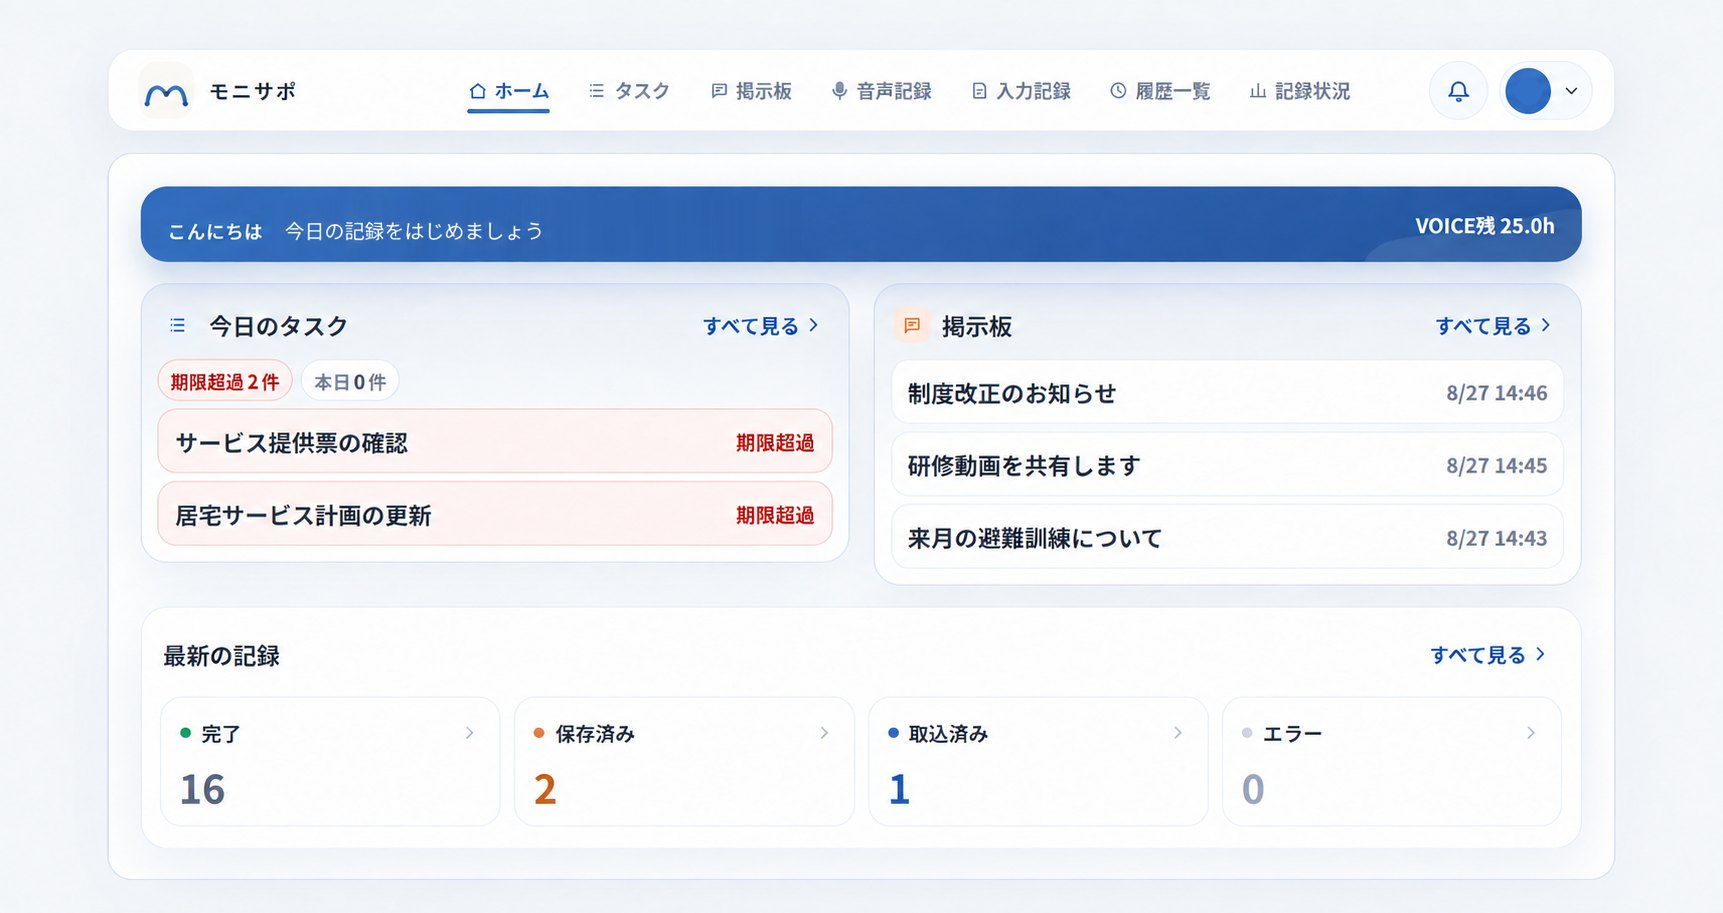
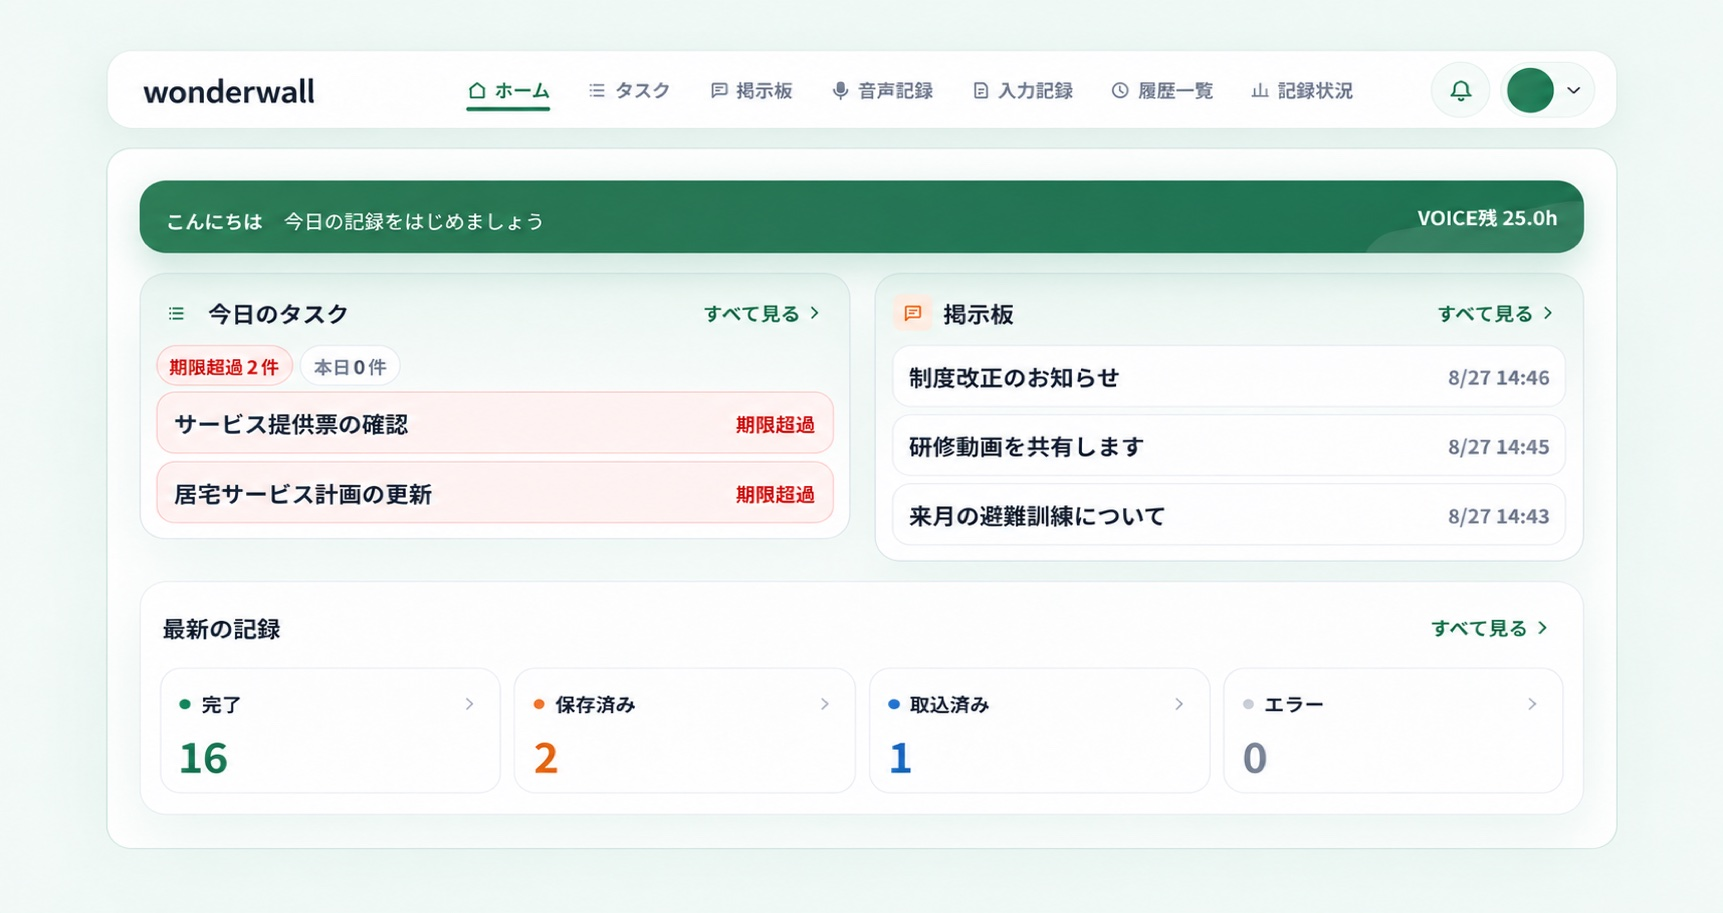
記録支援アプリのページにFAQを追加し、PC・スマホの画面画像を差し替え
FAQは開発元サイトに合わせ、RPA転記は事業所のPCで行う旨を明記。

diff --git a/care-partner.html b/care-partner.html
@@ -3366,7 +3366,96 @@ html.js .ms .reveal-copy {
       .ms .feature-triad--six .feature-card:last-of-type { border-bottom: 1px solid var(--line); }
       .ms .feature-statement { padding: 40px 0 32px; }
     }
+    .ms .section-faq { padding-block: 96px; }
+    .ms .faq-list { margin-top: 40px; border-top: 1px solid var(--line); }
+    .ms .faq-item {
+      display: grid;
+      grid-template-columns: minmax(0, 0.9fr) minmax(0, 1.1fr);
+      gap: 28px;
+      padding: 28px 0;
+      border-bottom: 1px solid var(--line);
+    }
+    .ms .faq-item h3 {
+      display: flex;
+      gap: 14px;
+      margin: 0;
+      color: var(--ink);
+      font-size: clamp(18px, 1.7vw, 21px);
+      font-weight: 900;
+      line-height: 1.5;
+    }
+    .ms .faq-item h3 span { flex: none; color: var(--blue); font-family: var(--font-latin); }
+    .ms .faq-item p { margin: 0; color: var(--ink-2); font-size: 15px; line-height: 1.85; }
+    @media (max-width: 700px) {
+      .ms .section-faq { padding-block: 72px; }
+      .ms .faq-list { margin-top: 28px; }
+      .ms .faq-item { grid-template-columns: 1fr; gap: 10px; padding: 24px 0; }
+    }
   </style>
+  <script type="application/ld+json">
+{
+  "@context": "https://schema.org",
+  "@type": "FAQPage",
+  "mainEntity": [
+    {
+      "@type": "Question",
+      "name": "どんなサービスですか？",
+      "acceptedAnswer": {
+        "@type": "Answer",
+        "text": "居宅介護支援事業所のケアマネジャー向けの業務支援ツールです。音声入力・録音・メモから支援経過や担当者会議の記録をAIで整え、オプションのRPA自動転記で介護ソフトへの入力まで自動化できます。"
+      }
+    },
+    {
+      "@type": "Question",
+      "name": "介護ソフトへの転記を自動化できますか？",
+      "acceptedAnswer": {
+        "@type": "Answer",
+        "text": "はい。オプションのRPA自動転記を使うと、AIで整えた支援経過などの記録を、手入力の代わりに介護ソフトへ自動で転記します。"
+      }
+    },
+    {
+      "@type": "Question",
+      "name": "利用にPCは必要ですか？",
+      "acceptedAnswer": {
+        "@type": "Answer",
+        "text": "記録はスマホでもPCでも作成可能です。RPA転記は事業所のPCで行います。"
+      }
+    },
+    {
+      "@type": "Question",
+      "name": "RPAに未対応の介護ソフトでも使えますか？",
+      "acceptedAnswer": {
+        "@type": "Answer",
+        "text": "はい。音声入力・AI整形だけでも導入でき、整えた記録をコピーして使えます。"
+      }
+    },
+    {
+      "@type": "Question",
+      "name": "複数人の会議も記録できますか？",
+      "acceptedAnswer": {
+        "@type": "Answer",
+        "text": "はい。音声記録では複数人の会話を録音し、話者分離を活用して記録を作れます。"
+      }
+    },
+    {
+      "@type": "Question",
+      "name": "入力内容はAIの学習に使われますか？",
+      "acceptedAnswer": {
+        "@type": "Answer",
+        "text": "いいえ。音声や記録、生成した内容をAIモデルの学習には利用しません。外部AIも学習に使われないサービス・契約を選定し利用しています。"
+      }
+    },
+    {
+      "@type": "Question",
+      "name": "RPA自動転記に対応している介護ソフトはどれですか？",
+      "acceptedAnswer": {
+        "@type": "Answer",
+        "text": "対応する介護ソフトは順次拡大中です。お使いの介護ソフトで使えるかは、お問い合わせください。"
+      }
+    }
+  ]
+}
+  </script>
 </head>
 <body>
 
@@ -3853,6 +3942,45 @@ html.js .ms .reveal-copy {
             <article class="customization-row text-rise-group" style="--i: 2">
               <h3>使う機能も。</h3>
               <p class="description"><span class="copy-line">記録づくりだけでも。</span><span class="copy-line">タスク・掲示板・RPAまで組み合わせても。</span></p>
+            </article>
+          </div>
+        </div>
+      </section>
+
+      <!-- ========== faq ========== -->
+      <section class="section section-faq" id="faq" aria-labelledby="faq-title">
+        <div class="wrap">
+          <div class="section-head reveal">
+            <h2 class="section-title" id="faq-title">よくあるご質問</h2>
+          </div>
+          <div class="faq-list">
+            <article class="faq-item reveal">
+              <h3><span aria-hidden="true">Q.</span>どんなサービスですか？</h3>
+              <p>居宅介護支援事業所のケアマネジャー向けの業務支援ツールです。音声入力・録音・メモから支援経過や担当者会議の記録をAIで整え、オプションのRPA自動転記で介護ソフトへの入力まで自動化できます。</p>
+            </article>
+            <article class="faq-item reveal">
+              <h3><span aria-hidden="true">Q.</span>介護ソフトへの転記を自動化できますか？</h3>
+              <p>はい。オプションのRPA自動転記を使うと、AIで整えた支援経過などの記録を、手入力の代わりに介護ソフトへ自動で転記します。</p>
+            </article>
+            <article class="faq-item reveal">
+              <h3><span aria-hidden="true">Q.</span>利用にPCは必要ですか？</h3>
+              <p>記録はスマホでもPCでも作成可能です。RPA転記は事業所のPCで行います。</p>
+            </article>
+            <article class="faq-item reveal">
+              <h3><span aria-hidden="true">Q.</span>RPAに未対応の介護ソフトでも使えますか？</h3>
+              <p>はい。音声入力・AI整形だけでも導入でき、整えた記録をコピーして使えます。</p>
+            </article>
+            <article class="faq-item reveal">
+              <h3><span aria-hidden="true">Q.</span>複数人の会議も記録できますか？</h3>
+              <p>はい。音声記録では複数人の会話を録音し、話者分離を活用して記録を作れます。</p>
+            </article>
+            <article class="faq-item reveal">
+              <h3><span aria-hidden="true">Q.</span>入力内容はAIの学習に使われますか？</h3>
+              <p>いいえ。音声や記録、生成した内容をAIモデルの学習には利用しません。外部AIも学習に使われないサービス・契約を選定し利用しています。</p>
+            </article>
+            <article class="faq-item reveal">
+              <h3><span aria-hidden="true">Q.</span>RPA自動転記に対応している介護ソフトはどれですか？</h3>
+              <p>対応する介護ソフトは順次拡大中です。お使いの介護ソフトで使えるかは、お問い合わせください。</p>
             </article>
           </div>
         </div>
